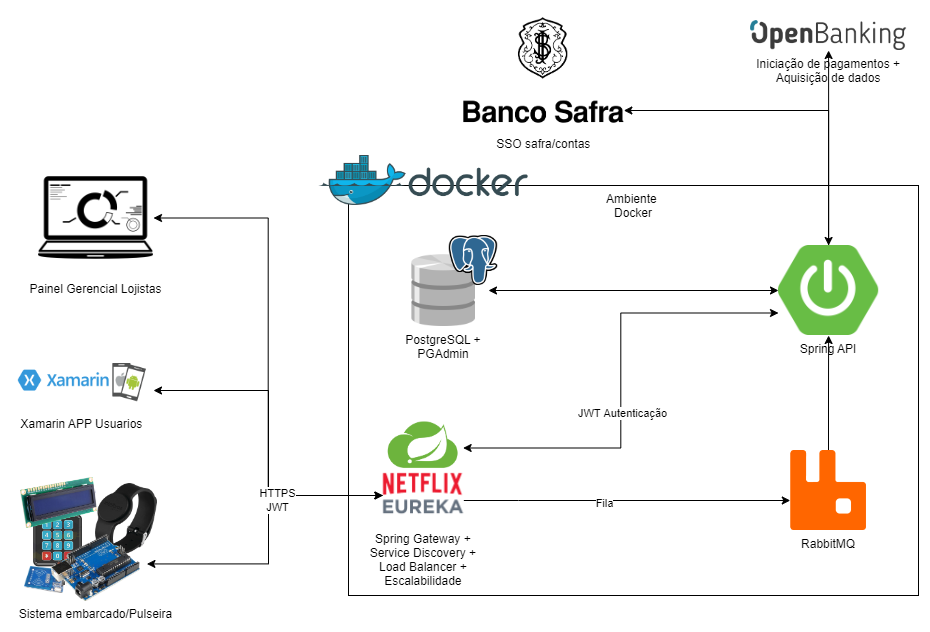
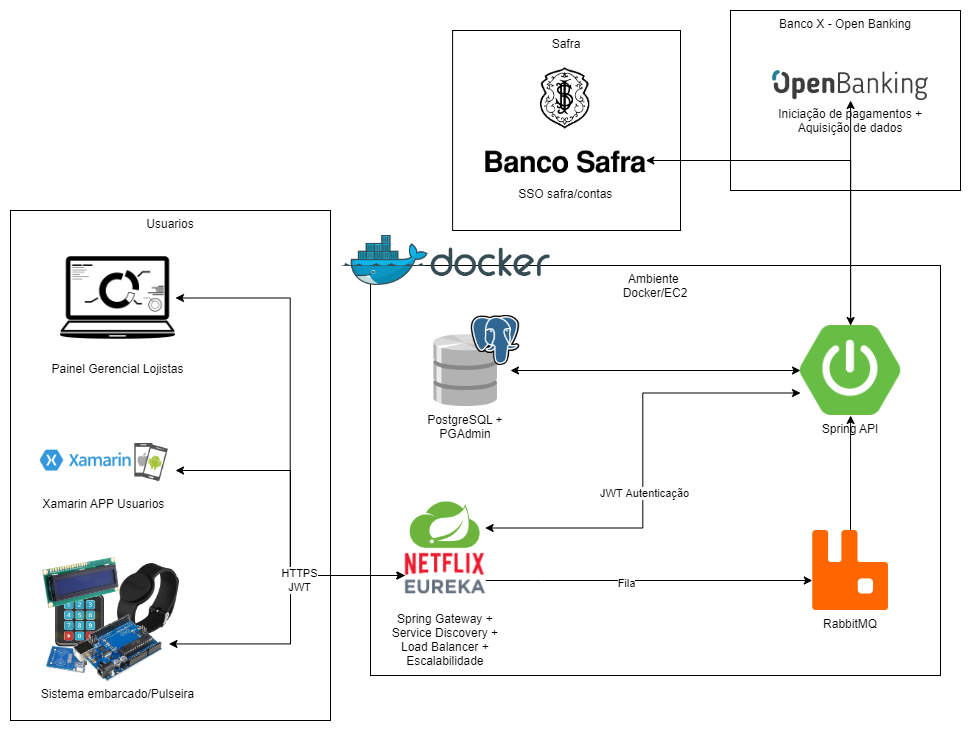
Readme ajust

Changed region(s): [[0.0, 0.0, 0.9978, 0.9921]]

diff --git a/README.md b/README.md
@@ -48,6 +48,7 @@ A implementar
 
 ## Arquitetura
 
+Esquemático de arquitetura:
 
 ![DIAGRAM](https://github.com/Safra-Open-Cashless/APIs/blob/main/Assets/Arquitetura.png?raw=true)
 
@@ -98,3 +99,15 @@ No mesmo terminal em que o docker estiver rodando pare a aplicação com o CTRL 
 ```shell
 docker-compose up
 ```
+
+## Implementações Futuras (RoadMap)
+
+1. Serviço de filas para transações (Evitando gargalos)
+
+4. Configuração automatica do banco de dados
+
+2. Servidor de autenticação/validação JWT pronto para uso, é necessário o consumo do mesmo pelo front.
+
+5. Integração com as APIs da fase 2/3 do open banking.
+
+3. CI/CD com proteção de dados sensiveis(ex: private key)
